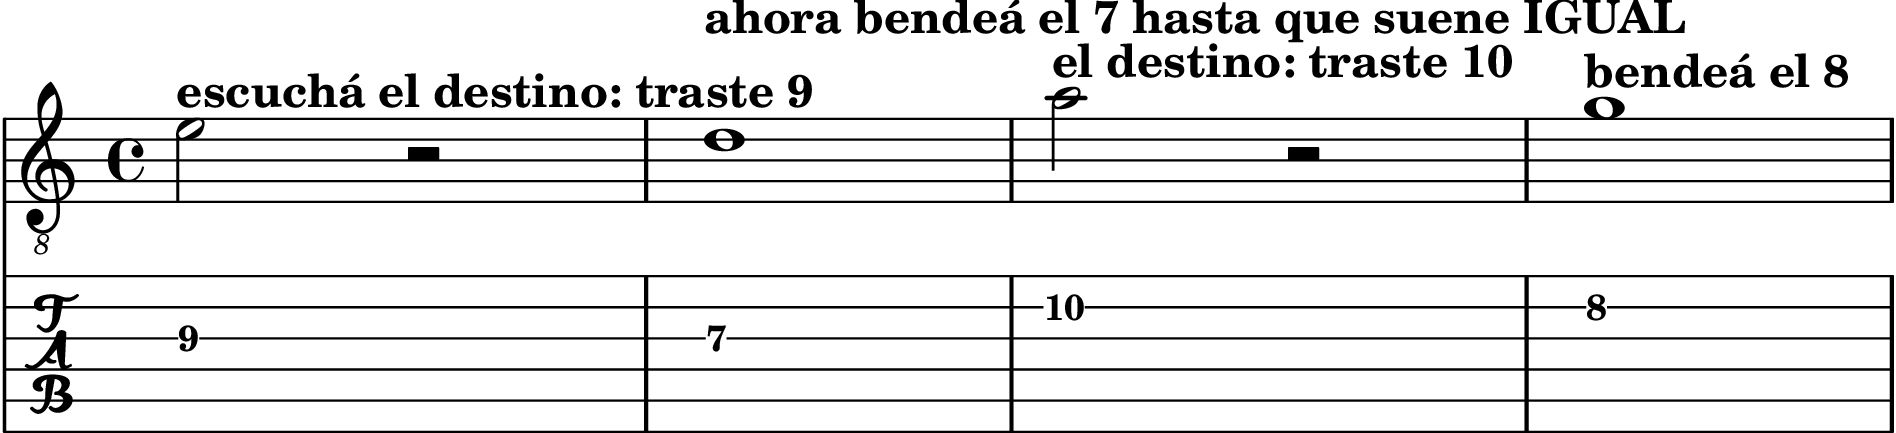
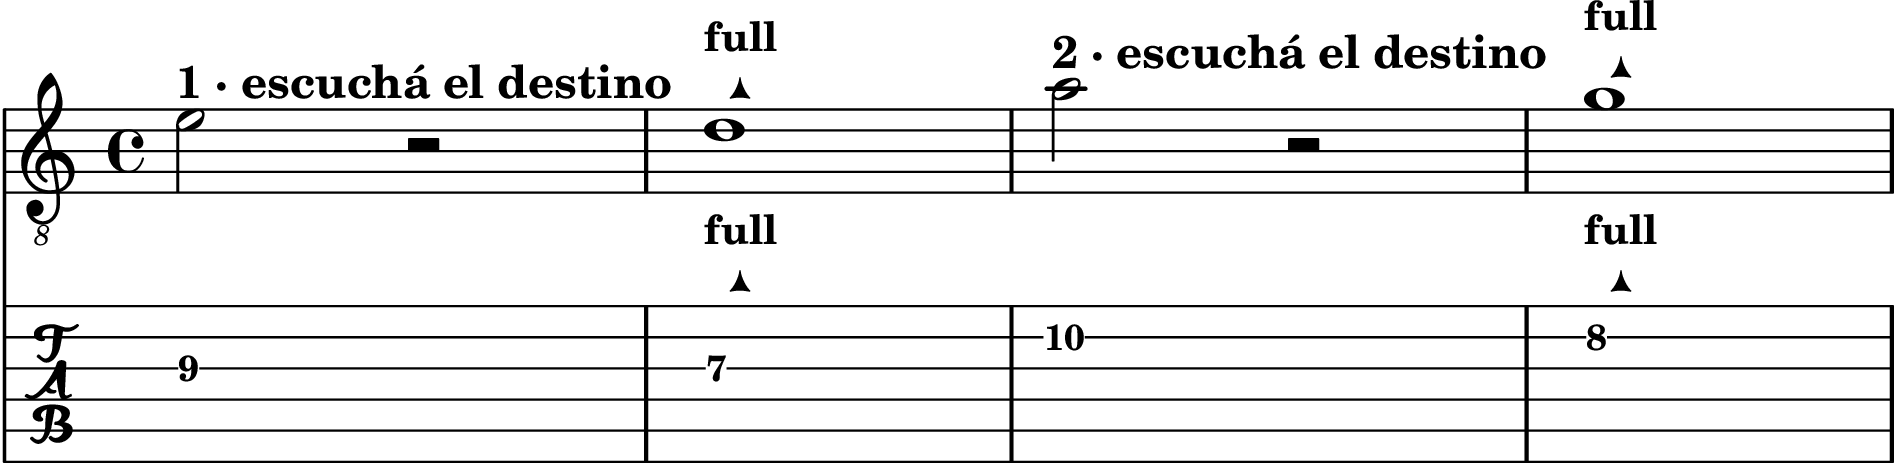
Notacion estandar de guitarra: prueba de concepto en el ej. 21
Feli senalo, mirando los PDF de Ross Campbell, que sus partituras tienen mas
expresion que las nuestras. Medido sobre la fuente, tenia razon — pero el
problema no es que ensenemos menos expresion (el Hito 2 entero es expresion):
es que NO LA NOTAMOS.

  Recurso    | Campbell                        | Nosotros (antes)
  -----------|---------------------------------|---------------------------
  slides     | sl. en casi todos los compases  | 4 por hito (\glissando)
  hammer/pull| H y P nota por nota             | practicamente ninguno
  bending    | full / medio, con flecha en TAB | texto: "bend 1 tono"
  vibrato    | simbolo                         | texto: "vibrato"

Escribiamos la tecnica en prosa castellana arriba del pentagrama, cuando existe
un vocabulario universal que cualquier guitarrista que abrio un libro de tabs
lee de un vistazo. Y sobre la TABLATURA no aparecia nada: el alumno veia un 7
pelado con un cartel lejos.

Lo que se probo en LilyPond 2.24.3:
  · hammer-on / pull-off -> slur + ^"H" / ^"P": sale NATIVO, con el arco
    dibujado en la tablatura. Identico a Campbell.
  · slides -> \glissando: ya lo teniamos, sale con la diagonal en la TAB.
  · bending -> el Bend_engraver de 2.24 NO pone flecha sobre el traste (probado
    con y sin Glissando_engraver: dibuja una linea de slide). Se resolvio con
    markup: \bendUp destapa el TextScript en TabVoice y \bendFull / \bendHalf
    dibujan "full" / "medio" con arrow-head. Queda sobre el numero de traste,
[…]

Changed region(s): [[0.0, 0.0, 1.0, 0.5704], [0.0, 0.6005, 1.0, 0.8707], [0.0, 0.9007, 1.0, 1.0]]

diff --git a/scripts/gen_scores.py b/scripts/gen_scores.py
@@ -30,6 +30,25 @@ TEMPLATE = r"""\version "2.24.0"
   evenHeaderMarkup = ##f
 }
 
+%% --- notacion estandar de guitarra (el vocabulario que lee cualquier guitarrista) ---
+%% Los slides (\glissando) y los ligados (slur + ^"H" / ^"P") ya salen nativos y se
+%% dibujan solos en la tablatura. El bending no: LilyPond 2.24 no le pone flecha al
+%% numero de traste, asi que se arma con markup.
+%%
+%% \bendUp / \bendHalf se ponen ANTES de la nota que se bendea; el markup va DESPUES.
+%% Lo que hacen es destapar el TextScript en la tablatura (el template lo apaga para
+%% que los carteles didacticos no se dupliquen), para que el "full" y la flecha
+%% aparezcan sobre el numero de traste, que es donde el guitarrista los busca.
+bendUp = {
+  \once \override TabVoice.TextScript.stencil = #ly:text-interface::print
+  \once \override TabVoice.TextScript.padding = #0.4
+  \once \override Voice.TextScript.padding = #0.4
+}
+bendFull = \markup \override #'(baseline-skip . 1.3) \center-column {
+  \bold \small "full" \arrow-head #Y #UP ##t }
+bendHalf = \markup \override #'(baseline-skip . 1.3) \center-column {
+  \bold \small "½" \arrow-head #Y #UP ##t }
+
 musica = {
   \key a \minor
   \time 4/4

diff --git a/scripts/gen_scores_h2.py b/scripts/gen_scores_h2.py
@@ -65,10 +65,10 @@ EJ["e20"] = r"""
 # ===================================================== SEMANA 6 — BENDING
 # 21: el destino primero, después el bending (afinar el oído)
 EJ["e21"] = r"""
-  e'2\3^\markup{\bold "escuchá el destino: traste 9"} r2 |
-  d'1\3^\markup{\bold "ahora bendeá el 7 hasta que suene IGUAL"} |
-  a'2\2^\markup{\bold "el destino: traste 10"} r2 |
-  g'1\2^\markup{\bold "bendeá el 8"} |
+  e'2\3^\markup{\bold "1 · escuchá el destino"} r2 |
+  \bendUp d'1\3^\bendFull |
+  a'2\2^\markup{\bold "2 · escuchá el destino"} r2 |
+  \bendUp g'1\2^\bendFull |
 """
 
 # 22: bending con destino, en tres cuerdas, ya en contexto
